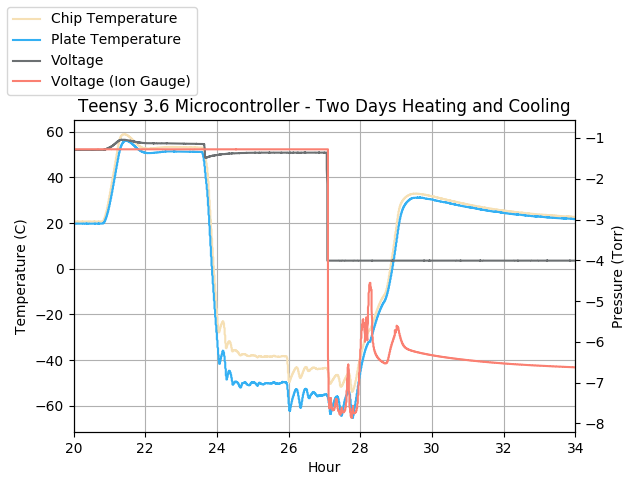
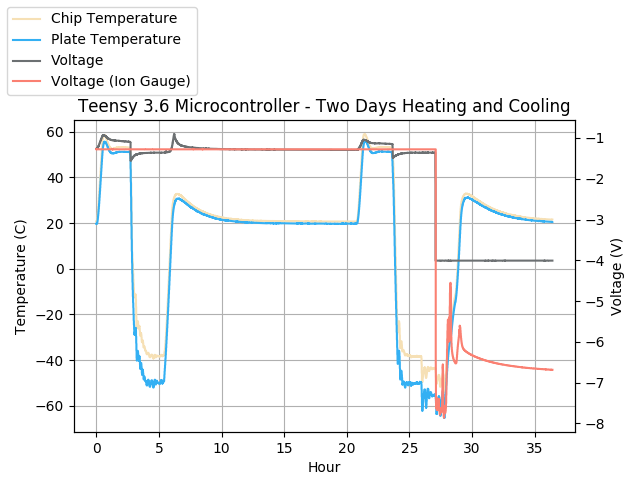
working scatter plot for temperature delta v pressure

diff --git a/tvac_2_28.py b/tvac_2_28.py
@@ -73,43 +73,51 @@ def plot_all():
     ax2 = ax1.twinx()  # instantiate a second axes that shares the same x-axis
 
     #color = 'tab:red'
-    ax2.set_ylabel('Pressure (Torr)')  # we already handled the x-label with ax1
+    ax2.set_ylabel('Voltage (V)')  # we already handled the x-label with ax1
     ax2.plot(hours, df_thinner["237 (VDC)"], color=grey, label="Voltage")
     ax2.plot(hours, df_thinner["238 (VDC)"], color=red, label="Voltage (Ion Gauge)",)
     ax2.tick_params(axis='y')
     fig.tight_layout()  # otherwise the right y-label is slightly clipped
     plt.subplots_adjust(bottom=.1, top=0.75)
     #ax2.set_ylim(,.08) #for ion gauge ploting on day 2
-    plt.xlim([20,34]) #changes time interval
+    #plt.xlim([0,34]) #changes time interval
 
     plt.figlegend(loc='upper left') #adds a legend
     plt.title("Teensy 3.6 Microcontroller - Two Days Heating and Cooling")
     plt.savefig("bothdays_voltages")
     plt.show()
 
+def combine_pressures(row):
+    if row["pressure"] < 0.000002:
+        return row["ion pressure"]
+    elif row["ion pressure"] < 0.000002:
+        return row["pressure"]
+    return min(row["pressure"], row["ion pressure"])
+
 def delta_temp_vs_pressure():
     #want to create one column for pressures
     chip = df_thinner["115 (C)"]
     plate = df_thinner["101 (C)"]
-    delta_t = chip - plate
+    df_thinner["delta_t"] = chip - plate
 
     #to make merge work
-    #df_thinner.drop(df_thinner.tail(1).index,inplace=True)
-    #print(df_thinner['ion pressure'])
-    #df_thinner['p_combined'] = df_thinner[df_thinner['pressure'], df_thinner['ion pressure']].min(axis=1)
-    #print(df_thinner['p_combined'])
+    df_thinner.drop(df_thinner.tail(1).index,inplace=True)
+    print('ionp', df_thinner['ion pressure'])
+    df_thinner['p_combined'] = df_thinner.apply(combine_pressures, axis=1)
+    print(df_thinner['p_combined'])
 
     plt.xlabel('Pressure (Torr)')
     plt.ylabel('Change in Temperature (C)')
-    plt.plot(df_thinner["ion pressure"], delta_t, color=blue, label="Difference of Chip and Plate Temperature")
+    plt.scatter(df_thinner["p_combined"], df_thinner["delta_t"], color=blue, label="Difference of Chip and Plate Temperature", marker=".", alpha=0.8)
+    plt.savefig("delta_t_func_pressure")
     plt.grid()
 
     #plt.subplots_adjust(bottom=.1, top=0.75)
-    #plt.xlim([20,34]) #changes time interval
+    plt.xlim([0,.0001]) #changes x interval
 
     plt.figlegend(loc='upper left') #adds a legend
-    plt.title("Change in Temperature Between Thermocouples as a Function of Pressure (Ion Gauge)")
-    plt.savefig("delta_temps_vs_p_ion")
+    plt.title("Change in Temperature Between Thermocouples as a Function of Pressure")
+    plt.savefig("delta_temps_vs_p_ion_SUPERPUMP")
     plt.show()
 
 delta_temp_vs_pressure()
